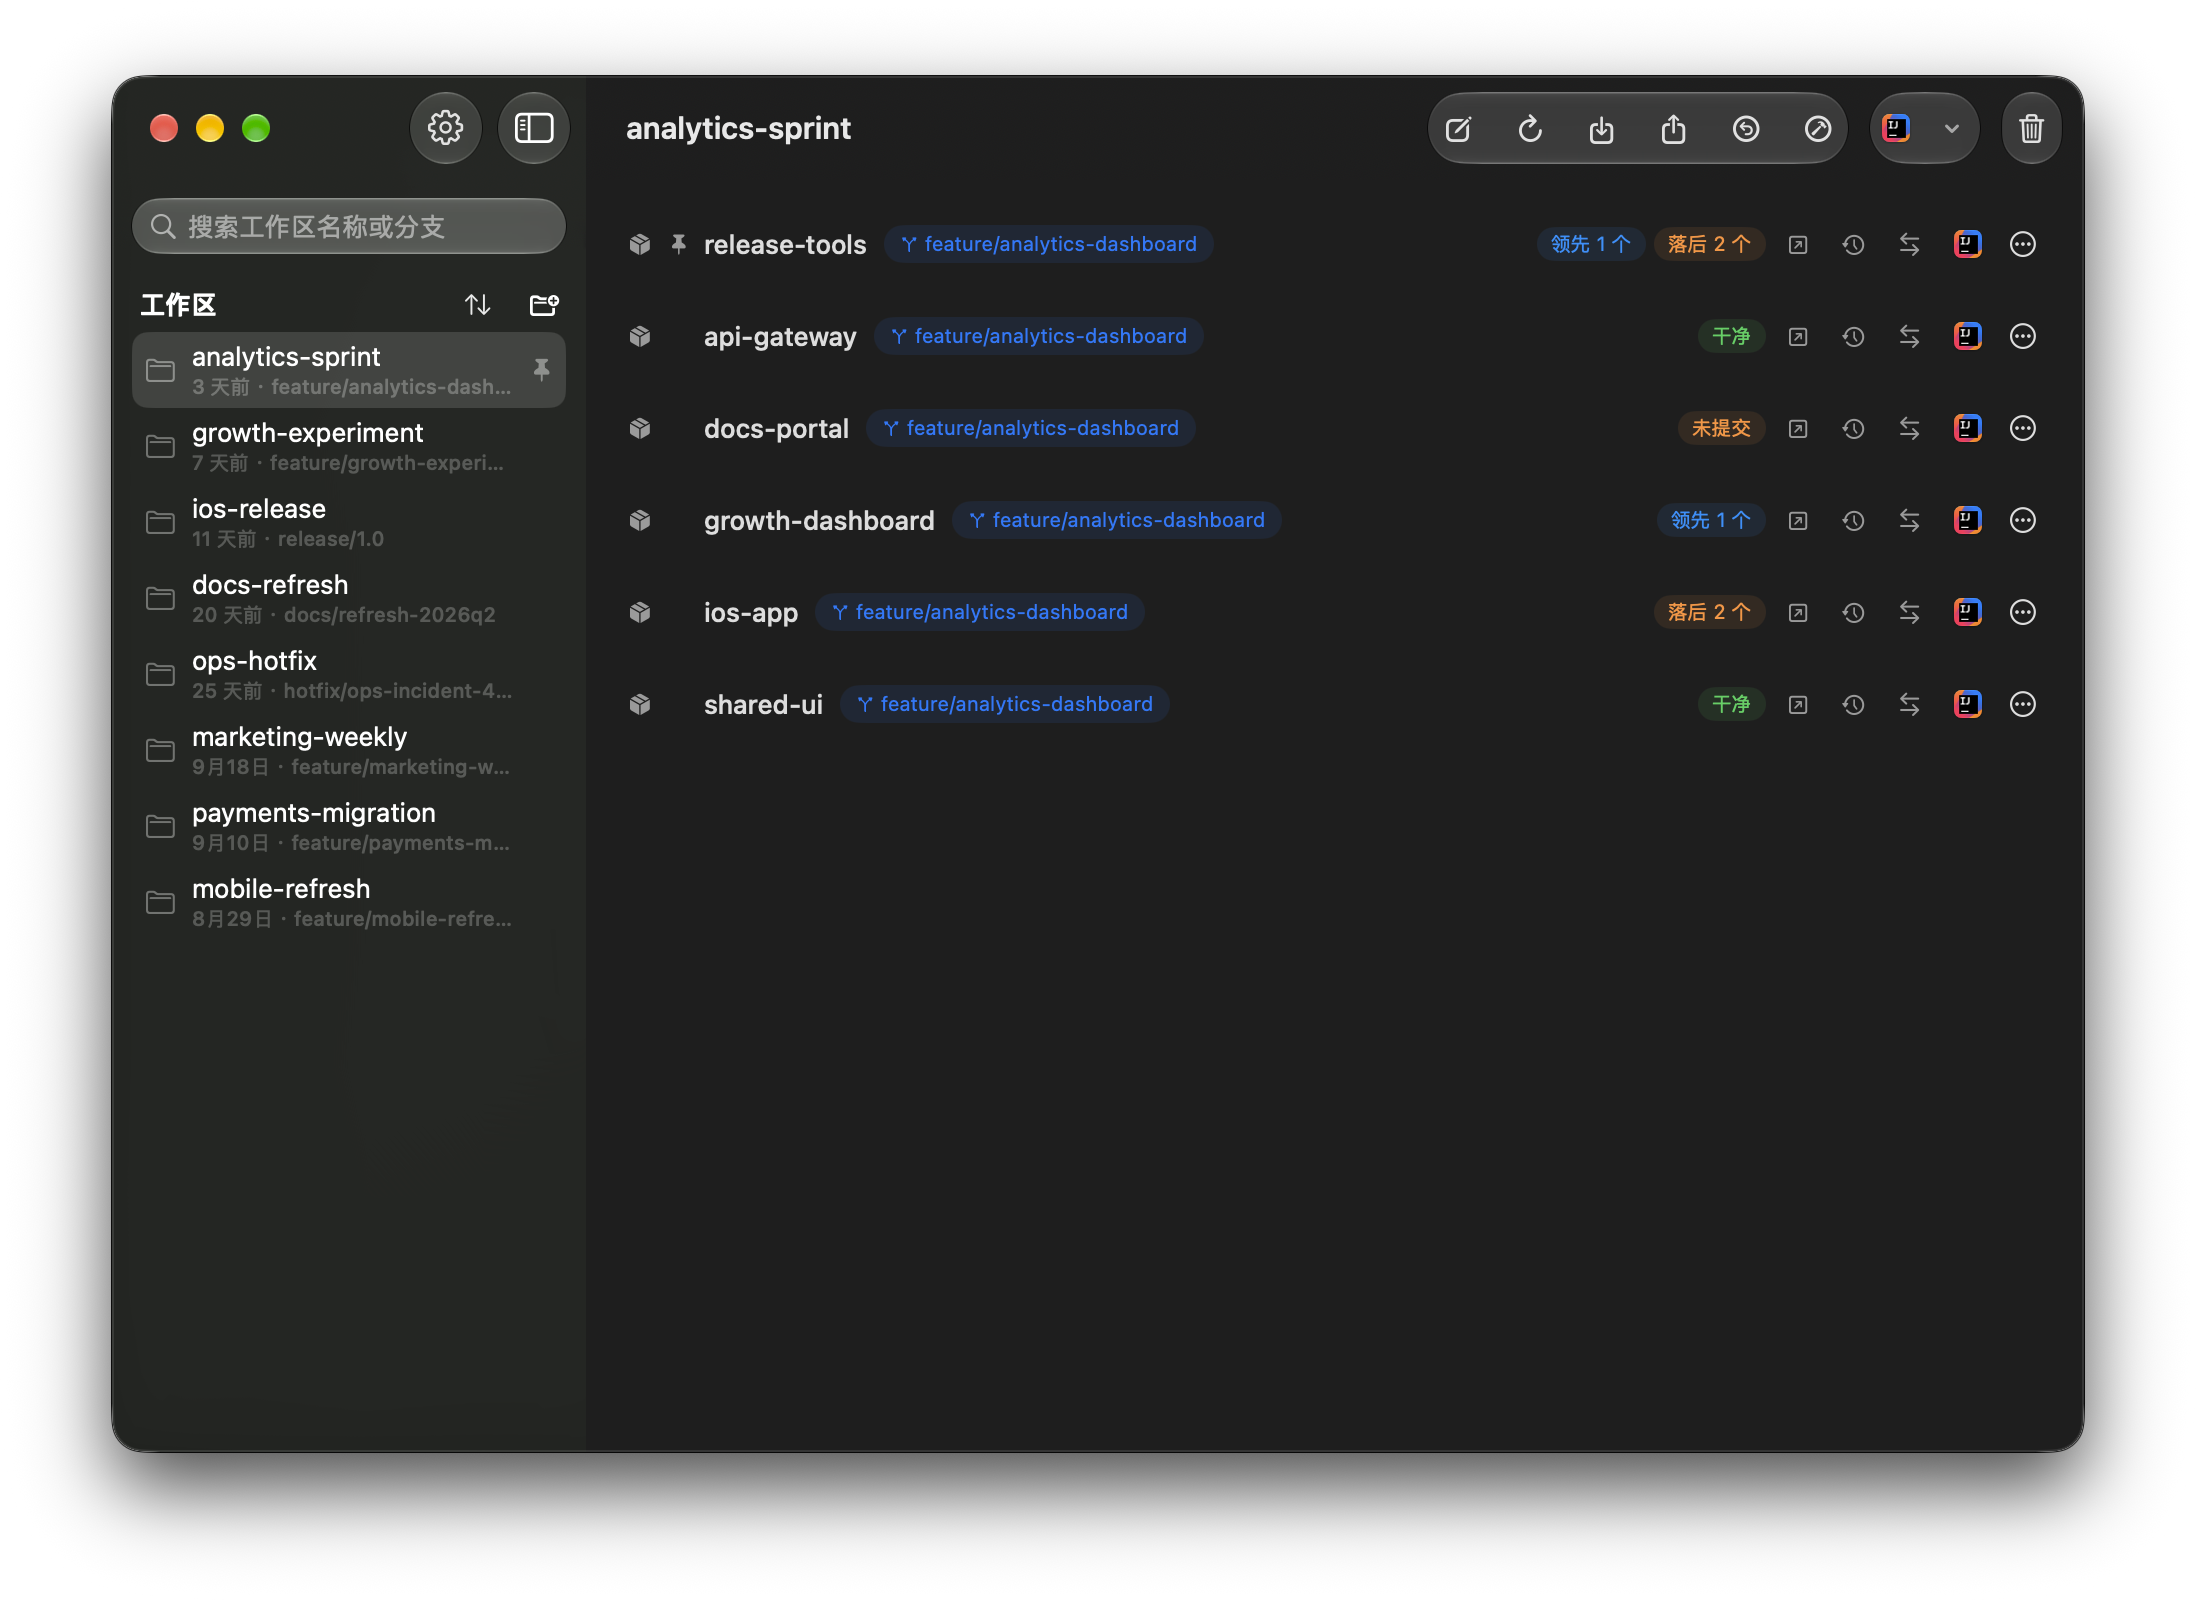
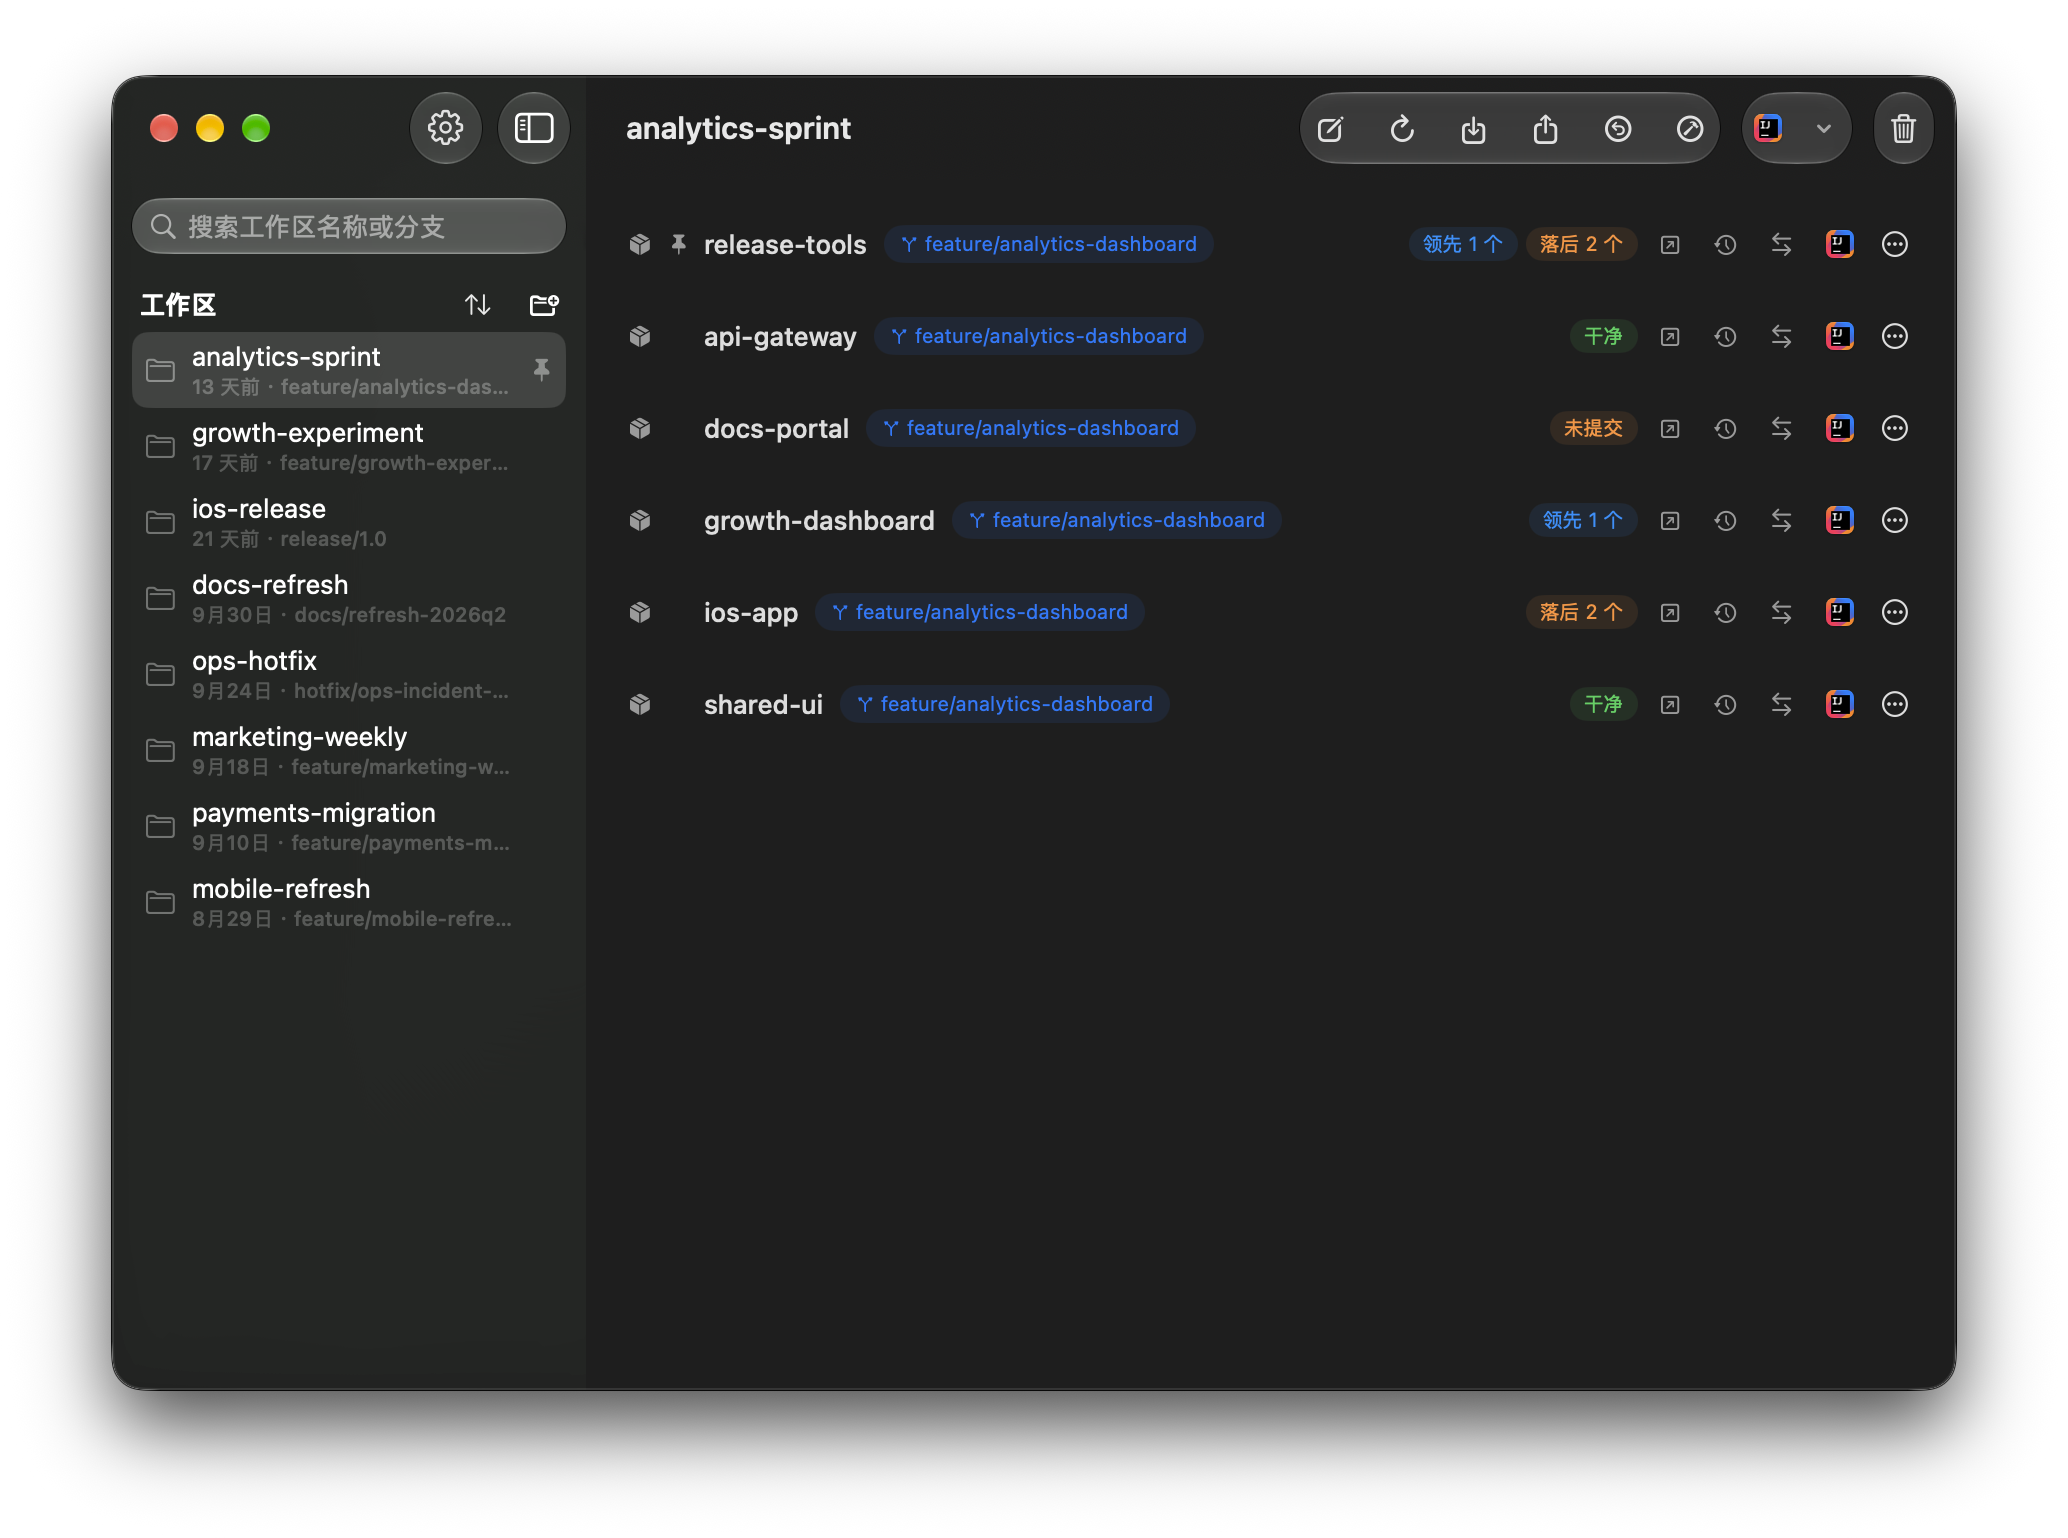
feat: 设置页仓库区输入行合并为单行两态,并去掉根目录行的内嵌外框
- Git 仓库区的地址框与搜索框合成一个框:默认搜索态,点「新增仓库」就地变地址态(灰底↔白底描边 + 灰阶「搜索/地址」标记),「添加」与回车都提交,「取消」/Esc 退回且保留已粘地址
- 仓库池为空时该行仍保持搜索态,空态与缺输入文案改指「新增仓库」;随之失效的 clearSearchIfOccluding 删除
- 工作区根目录去掉 ccspaceInsetPanel 那层内嵌框,路径 chip 直接坐在区块里,与仓库区搜索框同构;「未设置 / 目录不存在」的橙底落在 chip 上
- 重生成 README 三张截图

diff --git a/Sources/CCSpace/Views/RepositoryConfigView.swift b/Sources/CCSpace/Views/RepositoryConfigView.swift
@@ -16,11 +16,13 @@ struct RepositorySettingsSection: View {
     private let infoService: RepositoryInfoService
     /// 由 SettingsView 注入(它才持有外层 ScrollView 的 reader),把某条仓库行滚进视野。
     let scrollToRepository: (UUID) -> Void
-    /// 与 `searchText` 是两个互不相干的控件:地址框只负责建档,搜索框只负责过滤,否则粘贴地址会把列表筛成"未找到"。
+    /// 一行两用:`isAddingRepository` 决定这个框装的是过滤关键词还是待建档地址,两态各留一份文本。
+    /// 进地址态时 `searchText` 直接清空且不恢复;取消退回搜索态时粘过的地址仍在框里。
     @State private var addURLText = ""
-    /// 点过「新增仓库」但框里是空的:提示行要说"没填",不能报"格式不对"。
+    @State private var isAddingRepository = false
+    /// 点过「添加」但框里是空的:提示行要说"没填",不能报"格式不对"。
     @State private var addSubmitAttempted = false
-    @FocusState private var addURLFocused: Bool
+    @FocusState private var fieldFocused: Bool
     @State private var feedback: CCSpaceFeedback?
     @State private var deletePresentationState: RepositoryDeletePresentationState?
     @State private var justAddedRepositoryID: UUID?
@@ -119,12 +121,7 @@ struct RepositorySettingsSection: View {
                     .ccspaceAutoDismissFeedback($feedback)
             }
 
-            addRepositoryRow
-
-            // 仓库池为空时搜索框没有可过滤的内容,不出现;新增引导由地址框承担。
-            if repositories.isEmpty == false {
-                searchField
-            }
+            inputRow
 
             if searchState.filteredRepositories.isEmpty {
                 CCSpaceEmptyStateCard(
@@ -187,66 +184,103 @@ struct RepositorySettingsSection: View {
         }
     }
 
-    private var searchField: some View {
-        HStack(spacing: 8) {
-            Image(systemName: "magnifyingglass")
-                .font(.caption)
-                .foregroundStyle(.secondary)
-            TextField("搜索仓库名称或地址", text: $searchText)
-                .textFieldStyle(.plain)
-        }
-        .padding(.vertical, 6)
-        .padding(.horizontal, 10)
-        .background(Color.primary.opacity(0.03), in: RoundedRectangle(cornerRadius: 8, style: .continuous))
-    }
-
-    private var addRepositoryRow: some View {
-        let hint = addHint
+    /// 搜索态与地址态共用同一个框:壳层从灰底无描边换成白底灰描边,加上模式标记换字,
+    /// 就是"现在敲进去的东西是要建档的、不是用来过滤的"这件事的全部信号。
+    private var inputRow: some View {
+        let adding = isAddingRepository
+        let hint = adding ? addHint : nil
         return VStack(alignment: .leading, spacing: 6) {
             HStack(spacing: 8) {
-                addURLField
-                addRepositoryButton
+                inputField(adding: adding)
+                if adding {
+                    submitAddButton
+                    cancelButton
+                } else {
+                    enterAddButton
+                }
             }
-            if hint.text.isEmpty == false {
+            if let hint, hint.text.isEmpty == false {
                 addHintLine(hint)
             }
         }
     }
 
     /// 聚焦只加深描边灰度、不上蓝色焦点环:设置页通篇没有彩色边框。
-    private var addURLField: some View {
-        HStack(spacing: 8) {
-            Image(systemName: "link")
-                .font(.caption)
-                .foregroundStyle(.secondary)
-            TextField("粘贴 Git 仓库地址", text: $addURLText)
+    private func inputField(adding: Bool) -> some View {
+        HStack(spacing: 7) {
+            modeMark(adding: adding)
+            TextField(adding ? "粘贴 Git 仓库地址" : "搜索仓库名称或地址", text: fieldText)
                 .textFieldStyle(.plain)
                 .font(.callout)
-                .focused($addURLFocused)
+                .focused($fieldFocused)
+                .onSubmit {
+                    // 只有地址态回车提交;搜索态回车没有下一步动作。
+                    if adding {
+                        addRepository()
+                    }
+                }
         }
         .padding(.vertical, 6)
         .padding(.horizontal, 10)
         .background(
-            Color(nsColor: .textBackgroundColor),
+            adding
+                ? Color(nsColor: .textBackgroundColor)
+                : Color.primary.opacity(0.03),
             in: RoundedRectangle(cornerRadius: 8, style: .continuous)
         )
         .overlay {
-            RoundedRectangle(cornerRadius: 8, style: .continuous)
-                .strokeBorder(
-                    Color.primary.opacity(addURLFocused ? 0.22 : 0.10),
-                    lineWidth: 1
-                )
+            if adding {
+                RoundedRectangle(cornerRadius: 8, style: .continuous)
+                    .strokeBorder(
+                        Color.primary.opacity(fieldFocused ? 0.22 : 0.10),
+                        lineWidth: 1
+                    )
+            }
         }
     }
 
-    private var addRepositoryButton: some View {
+    private var fieldText: Binding<String> {
+        isAddingRepository ? $addURLText : $searchText
+    }
+
+    /// 一个框两用,总得有个常驻元素说清当前是哪一态——灰阶,不带颜色也不带图标。
+    private func modeMark(adding: Bool) -> some View {
+        Text(adding ? "地址" : "搜索")
+            .font(.caption2.weight(adding ? .semibold : .regular))
+            .foregroundStyle(adding ? Color.primary : Color.secondary)
+            .padding(.horizontal, 6)
+            .padding(.vertical, 2)
+            .background(
+                Color.primary.opacity(adding ? 0.09 : 0.05),
+                in: Capsule()
+            )
+    }
+
+    private var enterAddButton: some View {
         Button {
-            addRepository()
+            enterAddMode()
         } label: {
             Label("新增仓库", systemImage: "plus")
         }
         .ccspacePrimaryActionButton()
-        .ccspaceQuickHelp("以地址框的内容新增仓库")
+        .ccspaceQuickHelp("把这一行换成 Git 仓库地址输入")
+    }
+
+    private var submitAddButton: some View {
+        Button("添加") {
+            addRepository()
+        }
+        .ccspacePrimaryActionButton()
+        .ccspaceQuickHelp("以框里的地址新增仓库")
+    }
+
+    /// `.cancelAction` 让 Esc 与点「取消」走同一条退路。
+    private var cancelButton: some View {
+        Button("取消") {
+            exitAddMode()
+        }
+        .ccspaceSecondaryActionButton()
+        .keyboardShortcut(.cancelAction)
     }
 
     private var addHint: RepositoryAddFieldHint {
@@ -283,48 +317,51 @@ struct RepositorySettingsSection: View {
         }
     }
 
-    /// 点击时才判定,按钮不置灰。拦截性反馈一律落在地址框下方那一行,顶部横幅只留
+    /// 点「新增仓库」= 就地切到地址态。搜索词直接清空且不恢复:框被地址文本独占,
+    /// 留着旧关键词会在退回搜索态时莫名把列表重新过滤一遍。
+    private func enterAddMode() {
+        searchText = ""
+        addSubmitAttempted = false
+        isAddingRepository = true
+        fieldFocused = true
+    }
+
+    /// 取消只退形态,框里已粘的地址留着——再点「新增仓库」接着用。
+    private func exitAddMode() {
+        isAddingRepository = false
+        addSubmitAttempted = false
+    }
+
+    /// 点击时才判定,按钮不置灰。拦截性反馈一律落在这一行下方,顶部横幅只留
     /// "已新增 xxx"和写盘失败这类整页级信息。
     private func addRepository() {
         let gitURL = addURLText.trimmingCharacters(in: .whitespacesAndNewlines)
         guard gitURL.isEmpty == false else {
             addSubmitAttempted = true
-            addURLFocused = true
+            fieldFocused = true
             return
         }
         // 格式与重复都已在提示行里说清了,这里只挡住提交:再去 store 撞一次异常只会得到同一条信息的第二个版本。
         let hint = addHint
         guard hint.style != .error, hint.duplicateRepositoryID == nil else {
-            addURLFocused = true
+            fieldFocused = true
             return
         }
         do {
             let repository = try repositoryStore.addRepository(gitURL: gitURL)
             addURLText = ""
             addSubmitAttempted = false
-            clearSearchIfOccluding(repository)
             feedback = RepositoryConfigFeedbackFactory.addSuccess(repositoryName: repository.repoName)
             flagJustAdded(repository.id)
             refreshDefaultBranch(id: repository.id, gitURL: repository.gitURL)
-            // 连续新增:焦点留在地址框,下一个直接 ⌘V。
-            addURLFocused = true
+            // 连续新增:停在地址态、焦点留在框里,下一个直接 ⌘V。
+            fieldFocused = true
         } catch {
             feedback = CCSpaceFeedbackFactory.actionError(action: "新增仓库", error: error)
         }
     }
 
-    /// 搜索词还挂着、而这条记录不匹配它时先把词清掉——否则用户看不见刚加的仓库(判据与列表过滤同源)。
-    private func clearSearchIfOccluding(_ repository: RepositoryConfig) {
-        let keyword = searchText.trimmingCharacters(in: .whitespacesAndNewlines)
-        guard keyword.isEmpty == false,
-              RepositorySearchPresentationState.matches(repository, keyword: keyword) == false else { return }
-        searchText = ""
-    }
-
     private func locateRepository(_ id: UUID) {
-        if let repository = repositoryStore.repository(for: id) {
-            clearSearchIfOccluding(repository)
-        }
         Task { @MainActor in
             scrollToRepository(id)
         }

diff --git a/Sources/CCSpace/Views/RepositoryConfigSupport.swift b/Sources/CCSpace/Views/RepositoryConfigSupport.swift
@@ -12,8 +12,8 @@ enum RepositoryListLayout {
 struct RepositorySearchPresentationState {
     static let backToTopThreshold = 8
 
-    /// 仓库池为空时搜索框不出现(没东西可搜),空态副标题因此要指向地址框。
-    static let emptyLibrarySubtitle = "在上方地址框粘贴 Git 仓库地址，点「新增仓库」即可添加。"
+    /// 新增入口就是上方那一行(点「新增仓库」切成地址态),空池时把用户指到这里。
+    static let emptyLibrarySubtitle = "点上方「新增仓库」，在这一行粘贴 Git 仓库地址即可添加。"
 
     let filteredRepositories: [RepositoryConfig]
     let emptyTitle: String
@@ -25,7 +25,7 @@ struct RepositorySearchPresentationState {
     ) {
         let trimmedSearchText = searchText.trimmingCharacters(in: .whitespacesAndNewlines)
 
-        // 池为空时不能说"未找到匹配仓库":让用户去找一个此时并不出现的搜索框是误导。
+        // 池为空时不能说"未找到匹配仓库":根本没有关键词可谈,要说的是新增入口在哪。
         if trimmedSearchText.isEmpty || repositories.isEmpty {
             filteredRepositories = repositories
             emptyTitle = "暂无仓库配置"
@@ -233,7 +233,7 @@ struct RepositoryAddPresentationState {
 }
 
 /// 判据优先级:没输入且已点过新增 > 格式不合法 > 地址已建档 > 「将创建」预览;View 只按 `style` 着色。
-/// 空框且没点过按钮时 `text` 为**空串**,调用方据此收掉整一行——地址框占位词已说了"粘贴 Git 仓库地址",复述是噪声。
+/// 空框且没点过按钮时 `text` 为**空串**,调用方据此收掉整一行——框的占位词已说了"粘贴 Git 仓库地址",复述是噪声。
 struct RepositoryAddFieldHint: Equatable {
     enum Style: Equatable {
         case neutral
@@ -243,7 +243,7 @@ struct RepositoryAddFieldHint: Equatable {
         case error
     }
 
-    static let missingInputText = "请先在地址框粘贴 Git 仓库地址。"
+    static let missingInputText = "请先粘贴 Git 仓库地址。"
 
     let style: Style
     let text: String

diff --git a/Sources/CCSpace/Views/SettingsView.swift b/Sources/CCSpace/Views/SettingsView.swift
@@ -248,14 +248,6 @@ struct SettingsView: View {
                 .ccspacePrimaryActionButton()
                 .ccspaceQuickHelp("更改工作区存储位置")
             }
-            .ccspaceInsetPanel(
-                background: savedPath.isEmpty || rootDirectoryMissing
-                    ? Color.orange.opacity(0.03)
-                    : Color.primary.opacity(0.02),
-                cornerRadius: 12,
-                padding: 10,
-                borderOpacity: savedPath.isEmpty || rootDirectoryMissing ? 0.08 : 0.04
-            )
 
             if let shownFeedback = saveFeedback {
                 CCSpaceFeedbackBanner(feedback: shownFeedback, onClose: { saveFeedback = nil })
